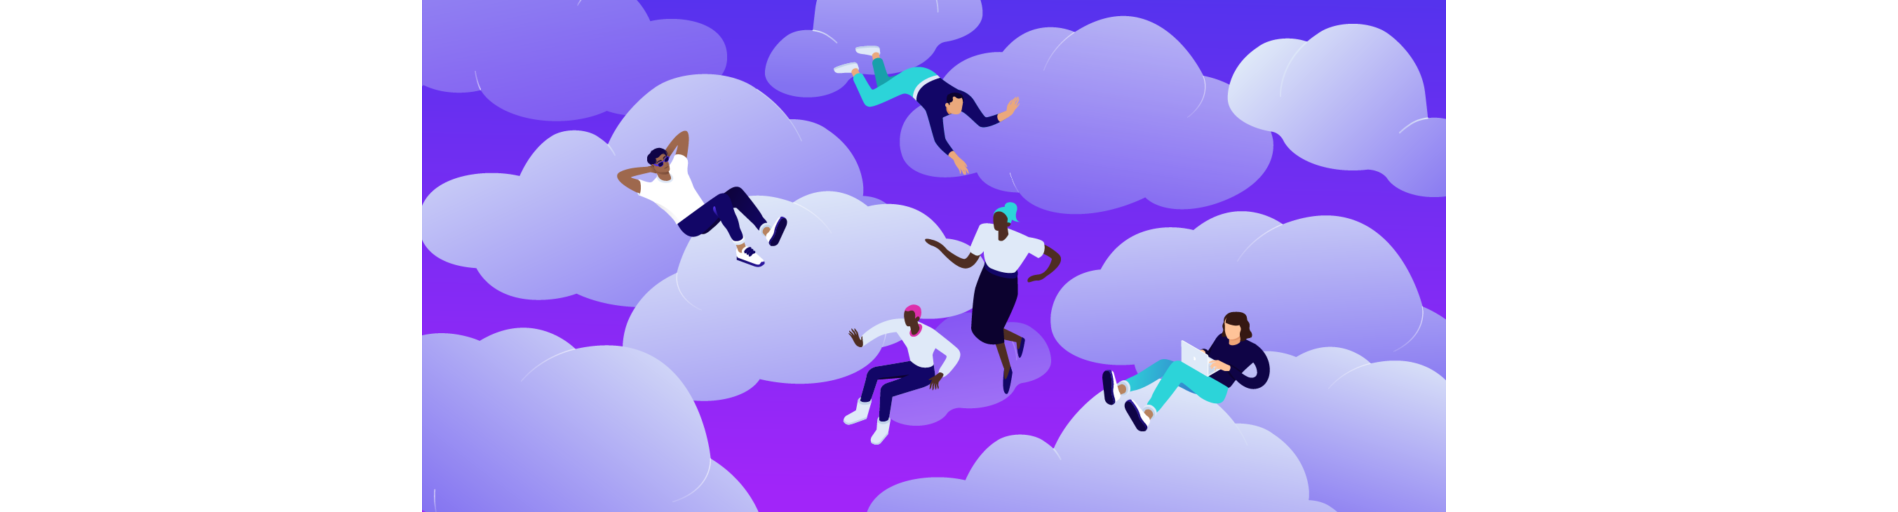
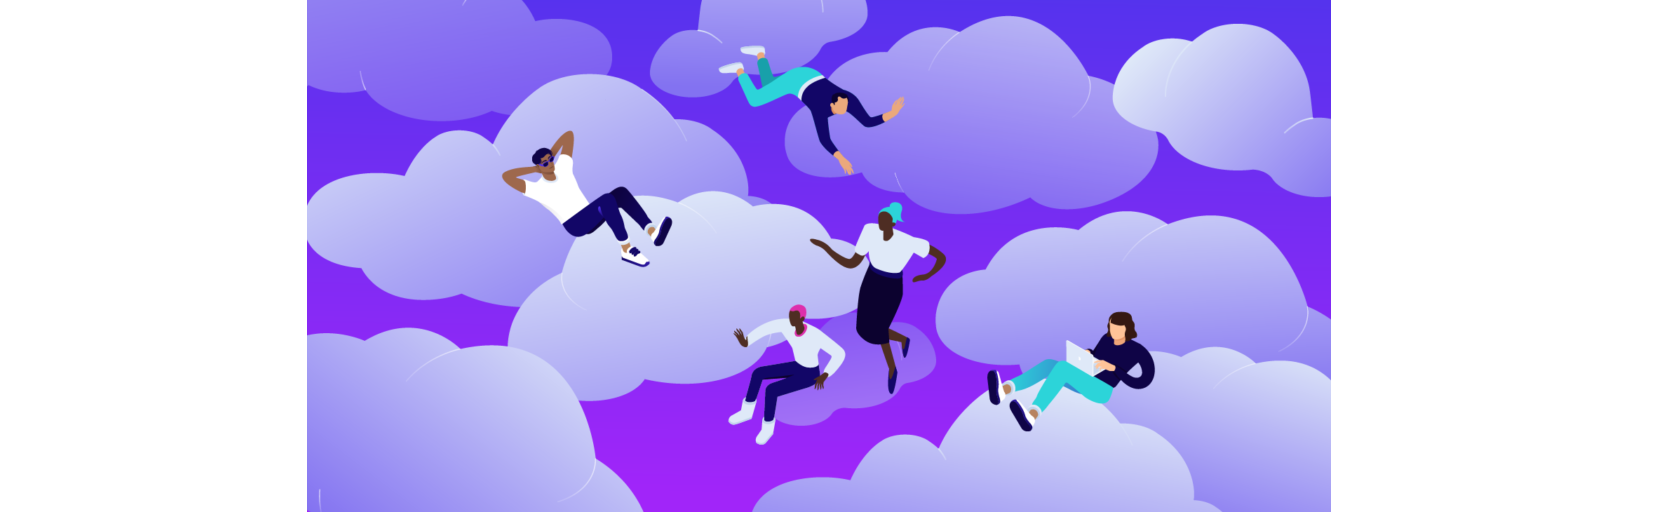
master

diff --git a/Readme.md b/Readme.md
@@ -357,7 +357,7 @@ ALTER USER 'root'@'%' IDENTIFIED WITH mysql_native_password BY 'lundechen';
 ![](readme_img/gitee.png)
 
 ### Dockerfile multistage build
-![](readme_img/build.jpg)
+![](readme_img/build.png)
 
 - https://docs.docker.com/develop/develop-images/multistage-build/
 
